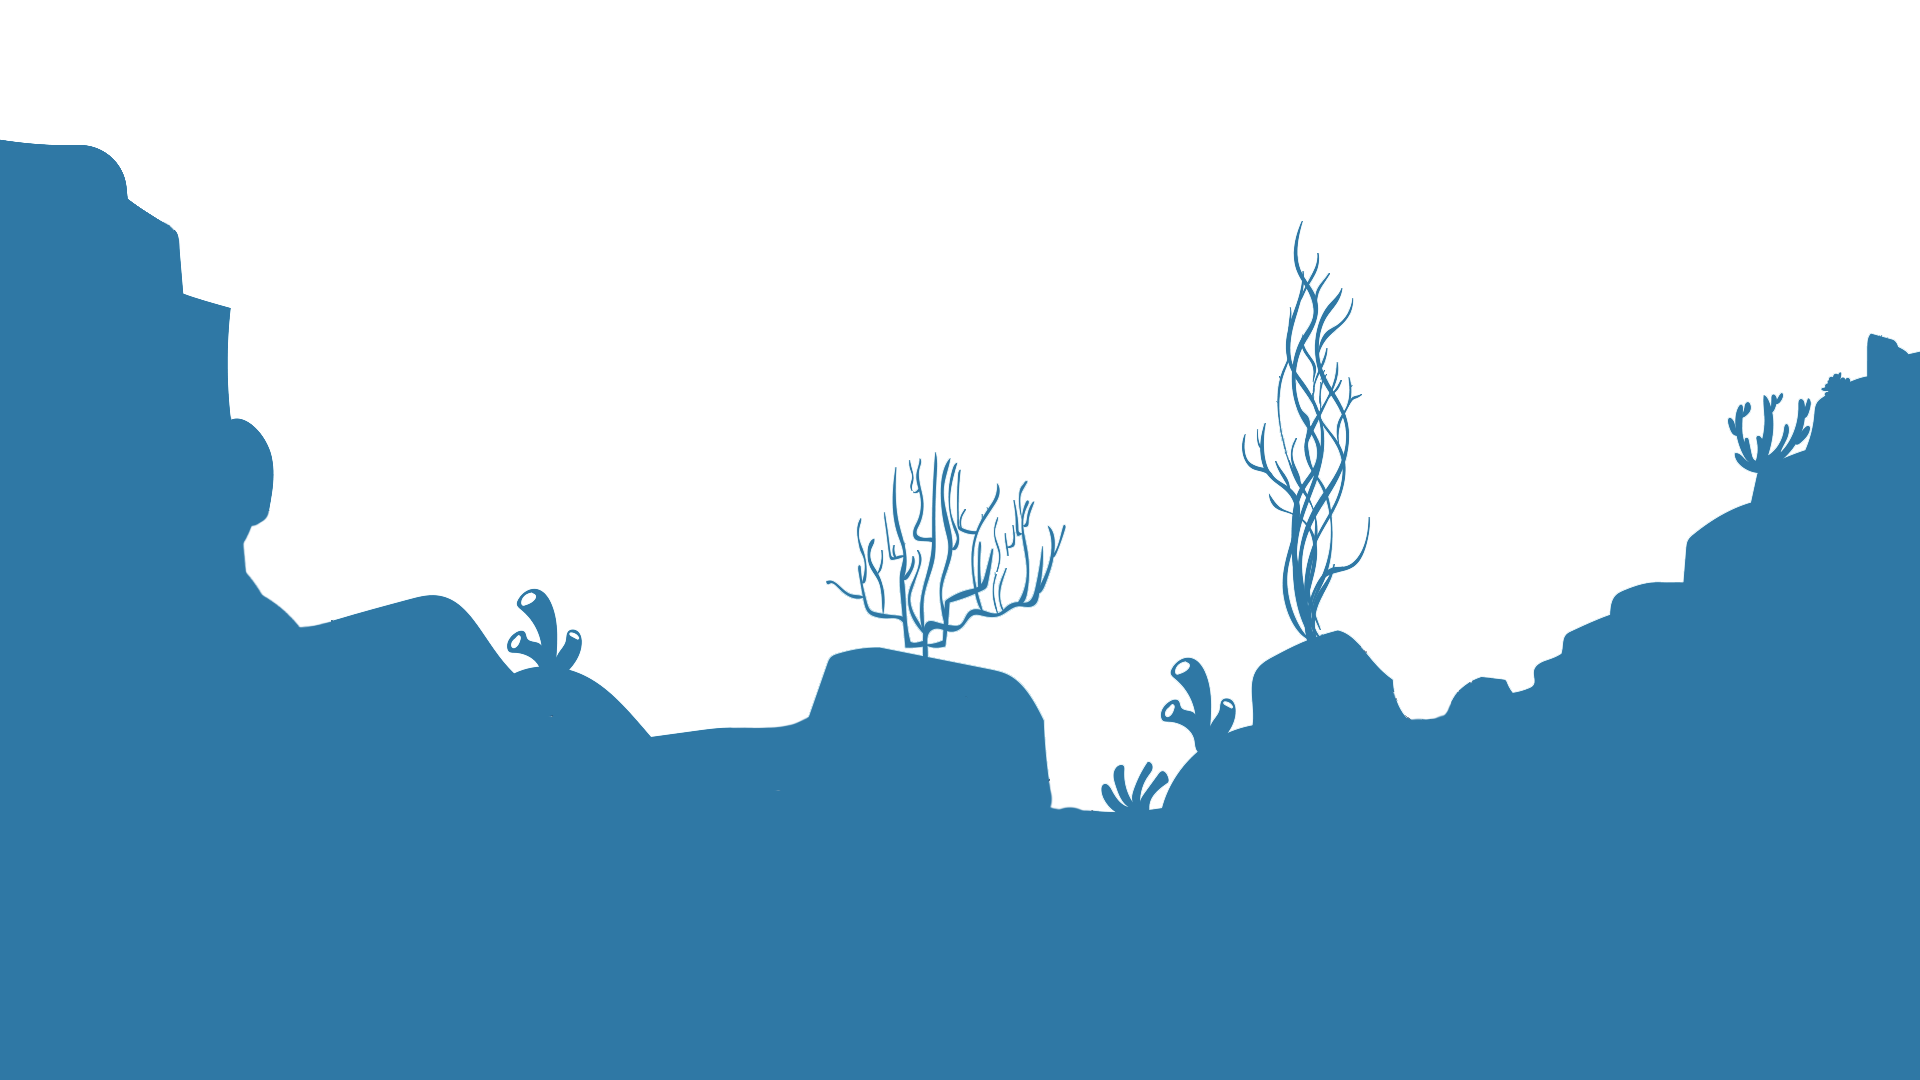
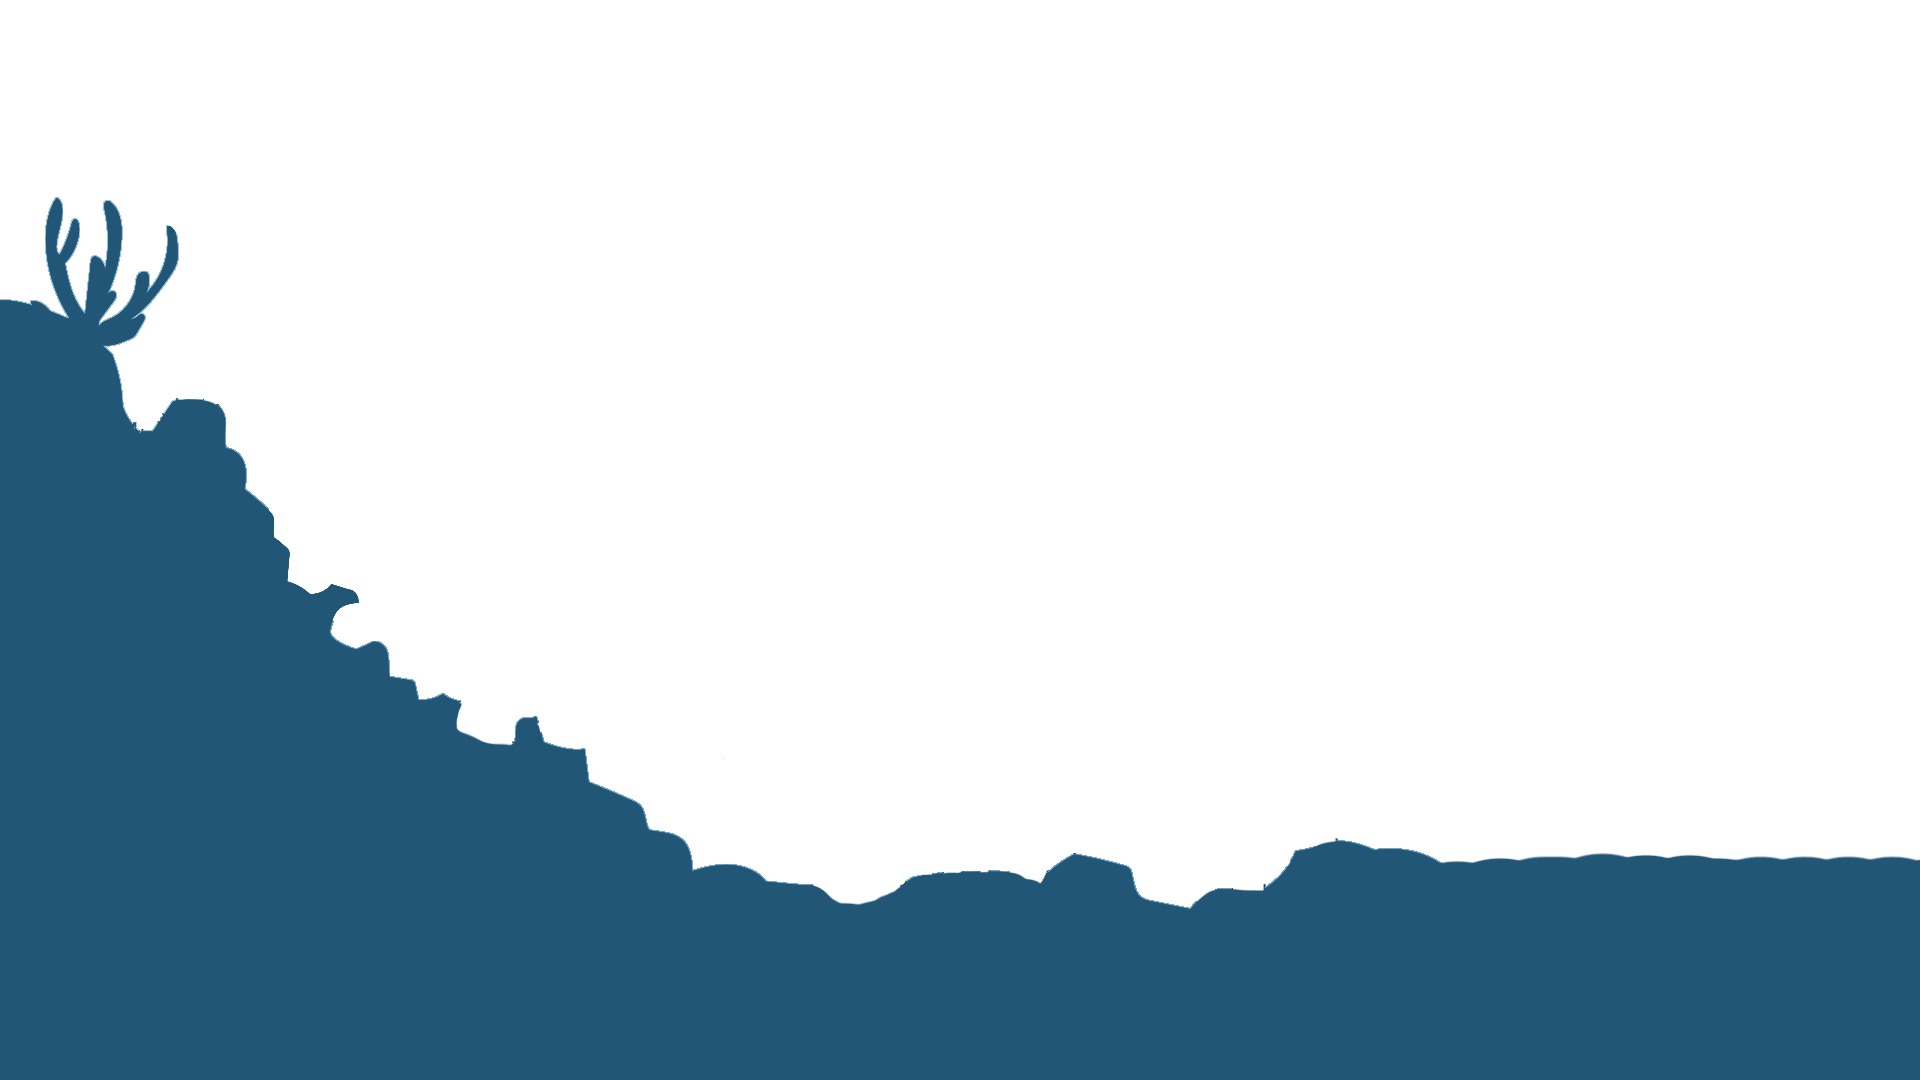
criando o efeito parallax

diff --git a/index.html b/index.html
@@ -18,6 +18,109 @@
             <a href="#">Contact</a>
         </nav>
     </header>
+
+    <section id="parallax">
+        <img src="./img/parallax-1.png" id="parallax1">
+        <img src="./img/parallax-2.png" id="parallax2">
+        <h2 id="parallax-text">Ocean Rescue</h2>
+        <img src="./img/parallax-3.png" id="parallax3">
+        <img src="./img/parallax-4.png" id="parallax4">
+        <img src="./img/parallax-5.png" id="fish-top">
+        <img src="./img/parallax-6.png" id="fish-right">
+        <img src="./img/parallax-7.png" id="fish-left">
+    </section>
+
+    <section class="sec">
+        <h2>Lorem, ipsum dolor.</h2>
+        <p>Lorem ipsum dolor sit amet consectetur adipisicing elit. Cumque quo facere nesciunt voluptatum excepturi!
+            Illo, non! Quidem qui reprehenderit necessitatibus vitae. Deserunt perferendis nobis possimus aperiam
+            commodi impedit vero atque ad, in ex esse repudiandae quam molestiae, voluptas eaque nemo aspernatur fugiat
+            ipsa, quisquam doloribus error praesentium. Et eos nulla corporis modi quas a earum minima ratione, vel
+            aspernatur cumque quia dolorum accusamus maiores? Incidunt ullam, explicabo alias placeat harum esse, cumque
+            molestiae expedita quisquam tenetur ab. Fuga in at impedit placeat consequatur? Ex nihil doloremque eos ad
+            illum exercitationem eligendi repellat quibusdam quis, nulla, sit assumenda vitae voluptatibus officiis ea
+            expedita rem deserunt distinctio laudantium. Odio ipsam iusto libero dolor, placeat quia animi ex explicabo
+            quibusdam deserunt consectetur minus itaque sunt! Quam, minima dolorum ipsa dolore error minus quae natus
+            inventore officia sed nemo laboriosam accusantium delectus quasi labore, architecto repellendus earum
+            libero. Est culpa odit numquam nostrum dolorem laborum cupiditate exercitationem porro laboriosam
+            perspiciatis veritatis animi quam veniam fugit maiores laudantium, amet neque nulla, alias omnis mollitia
+            sapiente doloribus praesentium minus. Officia voluptate, quidem cum illo culpa quaerat eaque voluptatem
+            dignissimos corporis ab amet natus! Tempore id perferendis quibusdam eaque dolor libero itaque, cum odio quo
+            esse dignissimos corrupti ipsam voluptatibus obcaecati non corporis fuga nemo, porro similique doloremque in
+            eveniet labore? Perspiciatis dignissimos soluta fugit quos. At unde nesciunt dignissimos facilis cumque quod
+            nemo consectetur itaque! Ex eaque repellendus accusantium enim, soluta quos reiciendis voluptatibus
+            provident quas repudiandae, minus iste, deleniti reprehenderit! Quibusdam illum voluptatibus quas fugiat
+            corrupti. Ipsum dolorum natus, dolorem porro expedita illo quis, nostrum ad maiores velit, cupiditate
+            voluptatem repudiandae perspiciatis commodi tenetur voluptates? Maiores facilis numquam iure commodi placeat
+            rem alias molestias modi laudantium! Culpa nesciunt ut officiis dolorum autem molestiae sit iure quas minima
+            quasi nisi soluta aspernatur impedit obcaecati aut, neque, iste pariatur ex. Eos fugit sit cum adipisci
+            voluptas ipsa eaque asperiores sequi eligendi magni autem quibusdam quo animi aperiam temporibus quidem sed,
+            earum non quasi nesciunt? Quibusdam deleniti rerum sit laborum tenetur! Perferendis autem excepturi
+            accusamus facilis nostrum magnam! Minus reprehenderit maiores quaerat! Iste ducimus, quos, unde, at vero
+            impedit dicta et corrupti sapiente possimus eligendi! Tempora corrupti pariatur excepturi voluptates fuga
+            explicabo, quam culpa nam minus, quis magni natus necessitatibus, labore recusandae atque. Sequi cumque
+            quaerat iusto eveniet ab? Laudantium eligendi illo labore, ut incidunt iste itaque rerum molestias, culpa
+            eaque eum neque ex ratione? Illum, maxime quas.<br /><br />
+            Lorem ipsum dolor sit amet consectetur adipisicing elit. Cumque quo facere nesciunt voluptatum excepturi!
+            Illo, non! Quidem qui reprehenderit necessitatibus vitae. Deserunt perferendis nobis possimus aperiam
+            commodi impedit vero atque ad, in ex esse repudiandae quam molestiae, voluptas eaque nemo aspernatur fugiat
+            ipsa, quisquam doloribus error praesentium. Et eos nulla corporis modi quas a earum minima ratione, vel
+            aspernatur cumque quia dolorum accusamus maiores? Incidunt ullam, explicabo alias placeat harum esse, cumque
+            molestiae expedita quisquam tenetur ab. Fuga in at impedit placeat consequatur? Ex nihil doloremque eos ad
+            illum exercitationem eligendi repellat quibusdam quis, nulla, sit assumenda vitae voluptatibus officiis ea
+            expedita rem deserunt distinctio laudantium. Odio ipsam iusto libero dolor, placeat quia animi ex explicabo
+            quibusdam deserunt consectetur minus itaque sunt! Quam, minima dolorum ipsa dolore error minus quae natus
+            inventore officia sed nemo laboriosam accusantium delectus quasi labore, architecto repellendus earum
+            libero. Est culpa odit numquam nostrum dolorem laborum cupiditate exercitationem porro laboriosam
+            perspiciatis veritatis animi quam veniam fugit maiores laudantium, amet neque nulla, alias omnis mollitia
+            sapiente doloribus praesentium minus. Officia voluptate, quidem cum illo culpa quaerat eaque voluptatem
+            dignissimos corporis ab amet natus! Tempore id perferendis quibusdam eaque dolor libero itaque, cum odio quo
+            esse dignissimos corrupti ipsam voluptatibus obcaecati non corporis fuga nemo, porro similique doloremque in
+            eveniet labore? Perspiciatis dignissimos soluta fugit quos. At unde nesciunt dignissimos facilis cumque quod
+            nemo consectetur itaque! Ex eaque repellendus accusantium enim, soluta quos reiciendis voluptatibus
+            provident quas repudiandae, minus iste, deleniti reprehenderit! Quibusdam illum voluptatibus quas fugiat
+            corrupti. Ipsum dolorum natus, dolorem porro expedita illo quis, nostrum ad maiores velit, cupiditate
+            voluptatem repudiandae perspiciatis commodi tenetur voluptates? Maiores facilis numquam iure commodi placeat
+            rem alias molestias modi laudantium! Culpa nesciunt ut officiis dolorum autem molestiae sit iure quas minima
+            quasi nisi soluta aspernatur impedit obcaecati aut, neque, iste pariatur ex. Eos fugit sit cum adipisci
+            voluptas ipsa eaque asperiores sequi eligendi magni autem quibusdam quo animi aperiam temporibus quidem sed,
+            earum non quasi nesciunt? Quibusdam deleniti rerum sit laborum tenetur! Perferendis autem excepturi
+            accusamus facilis nostrum magnam! Minus reprehenderit maiores quaerat! Iste ducimus, quos, unde, at vero
+            impedit dicta et corrupti sapiente possimus eligendi! Tempora corrupti pariatur excepturi voluptates fuga
+            explicabo, quam culpa nam minus, quis magni natus necessitatibus, labore recusandae atque. Sequi cumque
+            quaerat iusto eveniet ab? Laudantium eligendi illo labore, ut incidunt iste itaque rerum molestias, culpa
+            eaque eum neque ex ratione? Illum, maxime quas.<br /><br />
+            Lorem ipsum dolor sit amet consectetur adipisicing elit. Cumque quo facere nesciunt voluptatum excepturi!
+            Illo, non! Quidem qui reprehenderit necessitatibus vitae. Deserunt perferendis nobis possimus aperiam
+            commodi impedit vero atque ad, in ex esse repudiandae quam molestiae, voluptas eaque nemo aspernatur fugiat
+            ipsa, quisquam doloribus error praesentium. Et eos nulla corporis modi quas a earum minima ratione, vel
+            aspernatur cumque quia dolorum accusamus maiores? Incidunt ullam, explicabo alias placeat harum esse, cumque
+            molestiae expedita quisquam tenetur ab. Fuga in at impedit placeat consequatur? Ex nihil doloremque eos ad
+            illum exercitationem eligendi repellat quibusdam quis, nulla, sit assumenda vitae voluptatibus officiis ea
+            expedita rem deserunt distinctio laudantium. Odio ipsam iusto libero dolor, placeat quia animi ex explicabo
+            quibusdam deserunt consectetur minus itaque sunt! Quam, minima dolorum ipsa dolore error minus quae natus
+            inventore officia sed nemo laboriosam accusantium delectus quasi labore, architecto repellendus earum
+            libero. Est culpa odit numquam nostrum dolorem laborum cupiditate exercitationem porro laboriosam
+            perspiciatis veritatis animi quam veniam fugit maiores laudantium, amet neque nulla, alias omnis mollitia
+            sapiente doloribus praesentium minus. Officia voluptate, quidem cum illo culpa quaerat eaque voluptatem
+            dignissimos corporis ab amet natus! Tempore id perferendis quibusdam eaque dolor libero itaque, cum odio quo
+            esse dignissimos corrupti ipsam voluptatibus obcaecati non corporis fuga nemo, porro similique doloremque in
+            eveniet labore? Perspiciatis dignissimos soluta fugit quos. At unde nesciunt dignissimos facilis cumque quod
+            nemo consectetur itaque! Ex eaque repellendus accusantium enim, soluta quos reiciendis voluptatibus
+            provident quas repudiandae, minus iste, deleniti reprehenderit! Quibusdam illum voluptatibus quas fugiat
+            corrupti. Ipsum dolorum natus, dolorem porro expedita illo quis, nostrum ad maiores velit, cupiditate
+            voluptatem repudiandae perspiciatis commodi tenetur voluptates? Maiores facilis numquam iure commodi placeat
+            rem alias molestias modi laudantium! Culpa nesciunt ut officiis dolorum autem molestiae sit iure quas minima
+            quasi nisi soluta aspernatur impedit obcaecati aut, neque, iste pariatur ex. Eos fugit sit cum adipisci
+            voluptas ipsa eaque asperiores sequi eligendi magni autem quibusdam quo animi aperiam temporibus quidem sed,
+            earum non quasi nesciunt? Quibusdam deleniti rerum sit laborum tenetur! Perferendis autem excepturi
+            accusamus facilis nostrum magnam! Minus reprehenderit maiores quaerat! Iste ducimus, quos, unde, at vero
+            impedit dicta et corrupti sapiente possimus eligendi! Tempora corrupti pariatur excepturi voluptates fuga
+            explicabo, quam culpa nam minus, quis magni natus necessitatibus, labore recusandae atque. Sequi cumque
+            quaerat iusto eveniet ab? Laudantium eligendi illo labore, ut incidunt iste itaque rerum molestias, culpa
+            eaque eum neque ex ratione? Illum, maxime quas.</p>
+    </section>
+
     <script src="script.js"></script>
 </body>
 

diff --git a/css/style.css b/css/style.css
@@ -19,8 +19,9 @@
 body {
     background-color: var(--background-body-lightest);
     min-height: 100vh;
-    overflow-x: hidden;
 }
+
+/* cabecalho */
 
 header {
     position: absolute;
@@ -54,4 +55,54 @@ header {
 .navigation a.active{
     background-color: var(--background-body-darkest);
     color: white;
+}
+
+/* fim cabecalho */
+
+/* parallax */
+
+#parallax {
+    position: relative;
+    display: flex;
+    justify-content: center;
+    align-items: center;
+    height: 100vh;
+}
+
+#parallax-text {
+    position: absolute;
+    font-size: 5em;
+    color: var(--background-body-darkest);
+    font-weight: 600;
+    text-shadow: 2px 2px 4px rgb(0, 0, 0, 0.4);   
+}
+
+#parallax img {
+    position: absolute;
+    top: 0;
+    left: 0;
+    width: 100%;
+    pointer-events: none;
+}
+
+    #parallax::before{
+        content: '';
+        position: absolute;
+        bottom: 0;
+        width: 100%;
+        height: 50px;
+        background: linear-gradient(to top, var(--background-body-darkest), transparent);
+        z-index: 1000;
+    }
+
+/* fim parallax */
+
+.sec {
+    position: relative;
+    background-color: var(--background-body-darkest);
+    padding: 5em;
+
+    h2,p{
+        color: white;
+    }
 }

diff --git a/script.js b/script.js
@@ -1,0 +1,11 @@
+window.addEventListener('scroll', () => {
+    let value =window.scrollY;
+
+    document.getElementById('parallax-text').style.marginTop = value * 2.25 + 'px'
+    document.getElementById('fish-top').style.marginTop = value * -1 + 'px'
+    document.getElementById('fish-right').style.marginLeft = value * 1.5 + 'px'
+    document.getElementById('fish-left').style.marginLeft = value * -1 + 'px'
+    document.getElementById('parallax2').style.marginTop = value * -0.15 + 'px'
+    document.getElementById('parallax3').style.marginTop = value * -0.15 + 'px'
+    document.getElementById('parallax4').style.marginTop = value * -0.10 + 'px'
+})
